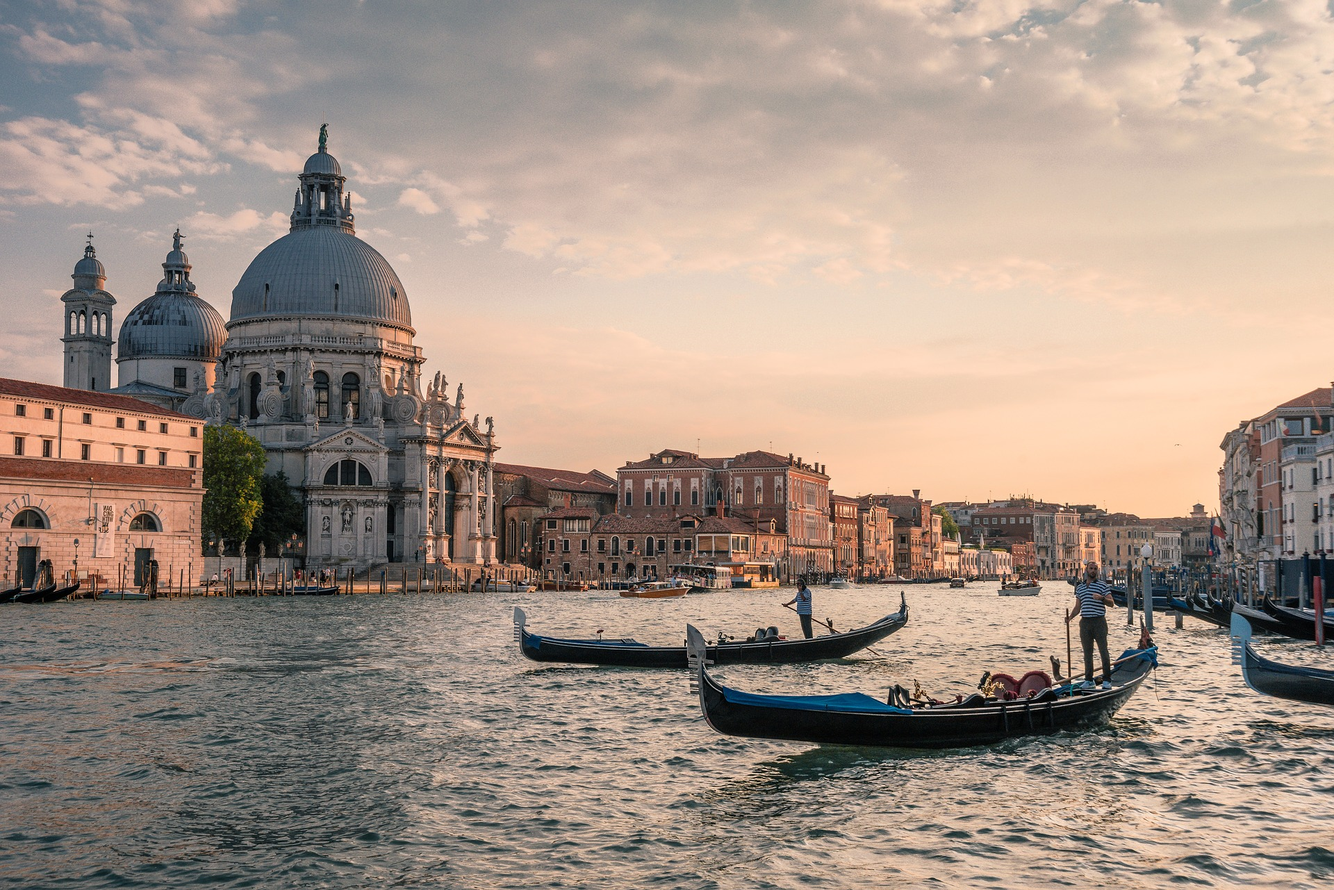
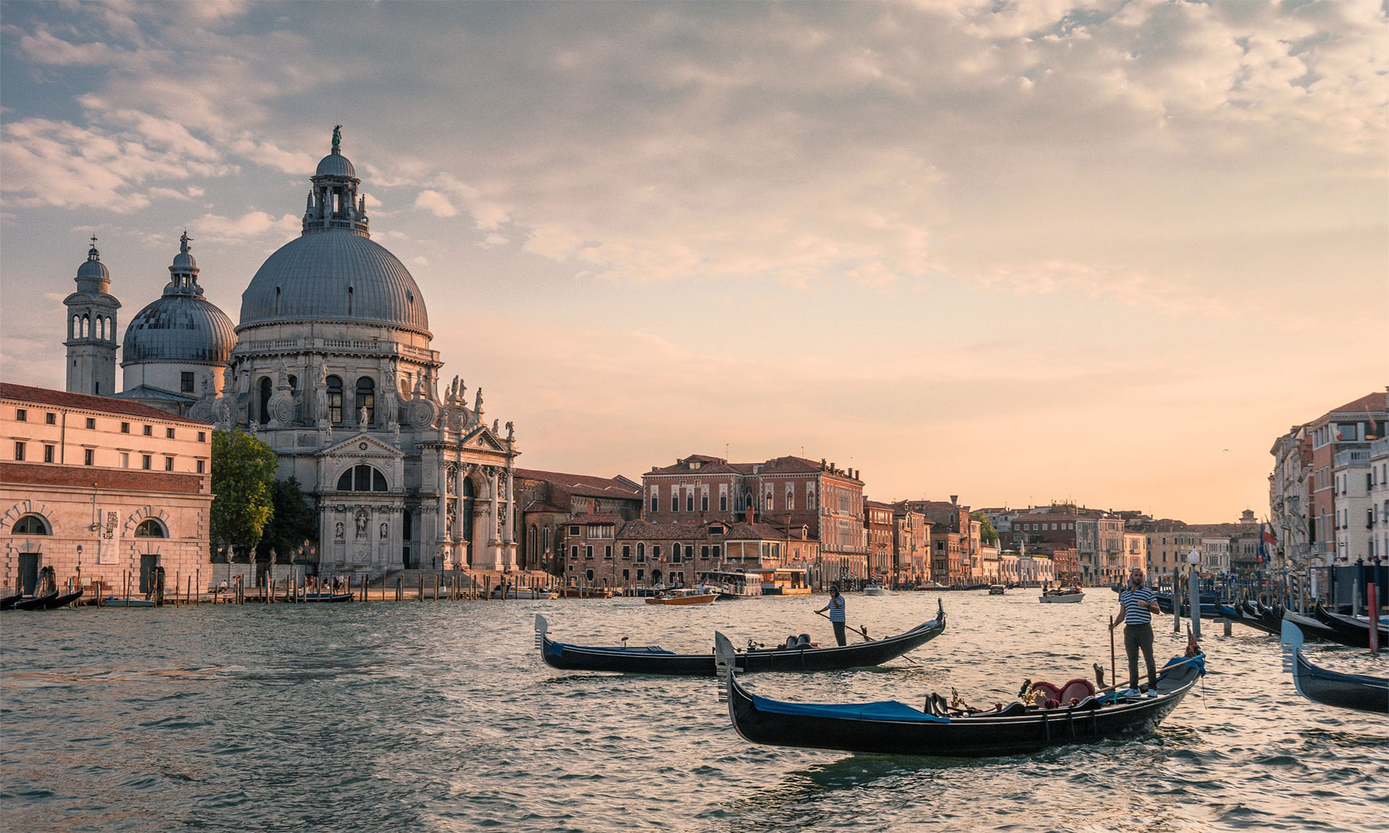
Getawaytours-1> Added images nd corrected theme colors of website
Getawaytours-1> Added images nd corrected theme colors of website

diff --git a/index.html b/index.html
@@ -4,7 +4,8 @@
     <meta charset="UTF-8">
     <meta name="viewport" content="width=device-width, initial-scale=1.0">
 
-    <link href="https://fonts.googleapis.com/css2?family=Lato:wght@100;300;400;700;900&family=Roboto:wght@100;300;400;500;700;900&display=swap" rel="stylesheet">
+    <link href="https://fonts.googleapis.com/css2?family=Lato:wght@100;300;400;700;900&family=Roboto:wght@100;300;400;500;700;900&display=swap"
+          rel="stylesheet">
     <script src="https://kit.fontawesome.com/6c3069d10e.js" crossorigin="anonymous"></script>
     <link rel="stylesheet" href="css/style.css">
     <link rel="shortcut icon" type="image/png" href="img/favicon-96x96.png">
@@ -12,7 +13,7 @@
 
 </head>
 <body>
-
+<header class="header">Some text</header>
 
 </body>
 </html>

diff --git a/css/style.css b/css/style.css
@@ -3,6 +3,7 @@ COLORS:
 
 White: #fff9f0
 Black: #221b22
+grey:  #4d454d
 
 primary color : ORANGE
 Dark Orange : #e68572
@@ -25,3 +26,24 @@ Fifth Color : Light yellow
 Lightest yellow : #ffefd6
 
 */
+
+* {
+    margin: 0;
+    padding: 0;
+    box-sizing: border-box;
+}
+
+body {
+    font-family: "Lato", sans-serif;
+    font-weight: 400;
+    font-size: 16px;
+    line-height: 1.7;
+    color: #4d454d;
+}
+
+.header{
+    height: 95vh;
+    background: url("../img/nat-38.jpg") no-repeat center fixed;
+    background-size: cover;
+
+}

diff --git a/README.md b/README.md
@@ -1,2 +1,13 @@
 # Getaway-Tours
-It is a website for a tourism company i.e. Getaway Tours. It shows the company details , discount  packages and contact page. This website is developed on HTML, CSS and SASS
+It is a website for a tourism company i.e. Getaway Tours. It shows the company details , 
+discount  packages and contact page. This website is developed on HTML, CSS and SASS
+The project was divided into several sections and i learned many skills related to javascript while developing each 
+section. 
+
+# **Setup and first steps**
+
+**Sections 1: Building the header**
+1) The best way to perform a basic reset using universal selector
+2) How to set project wide font definition
+3) How to clip parts of element using clip-path   
+
